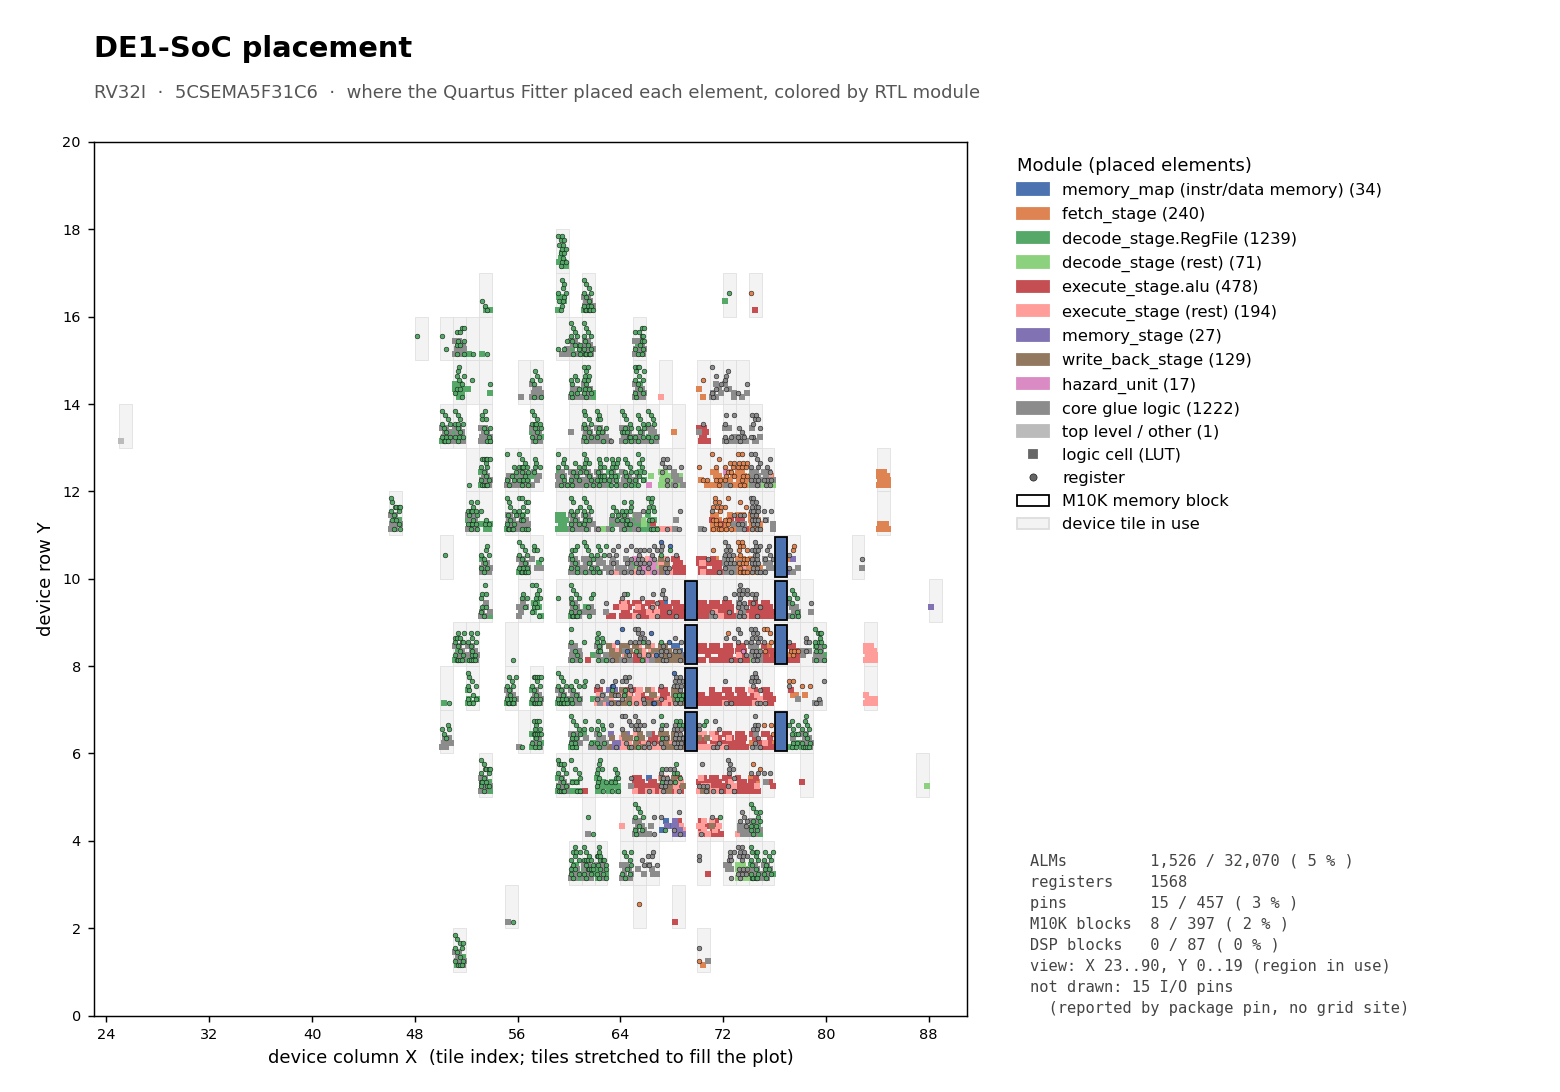
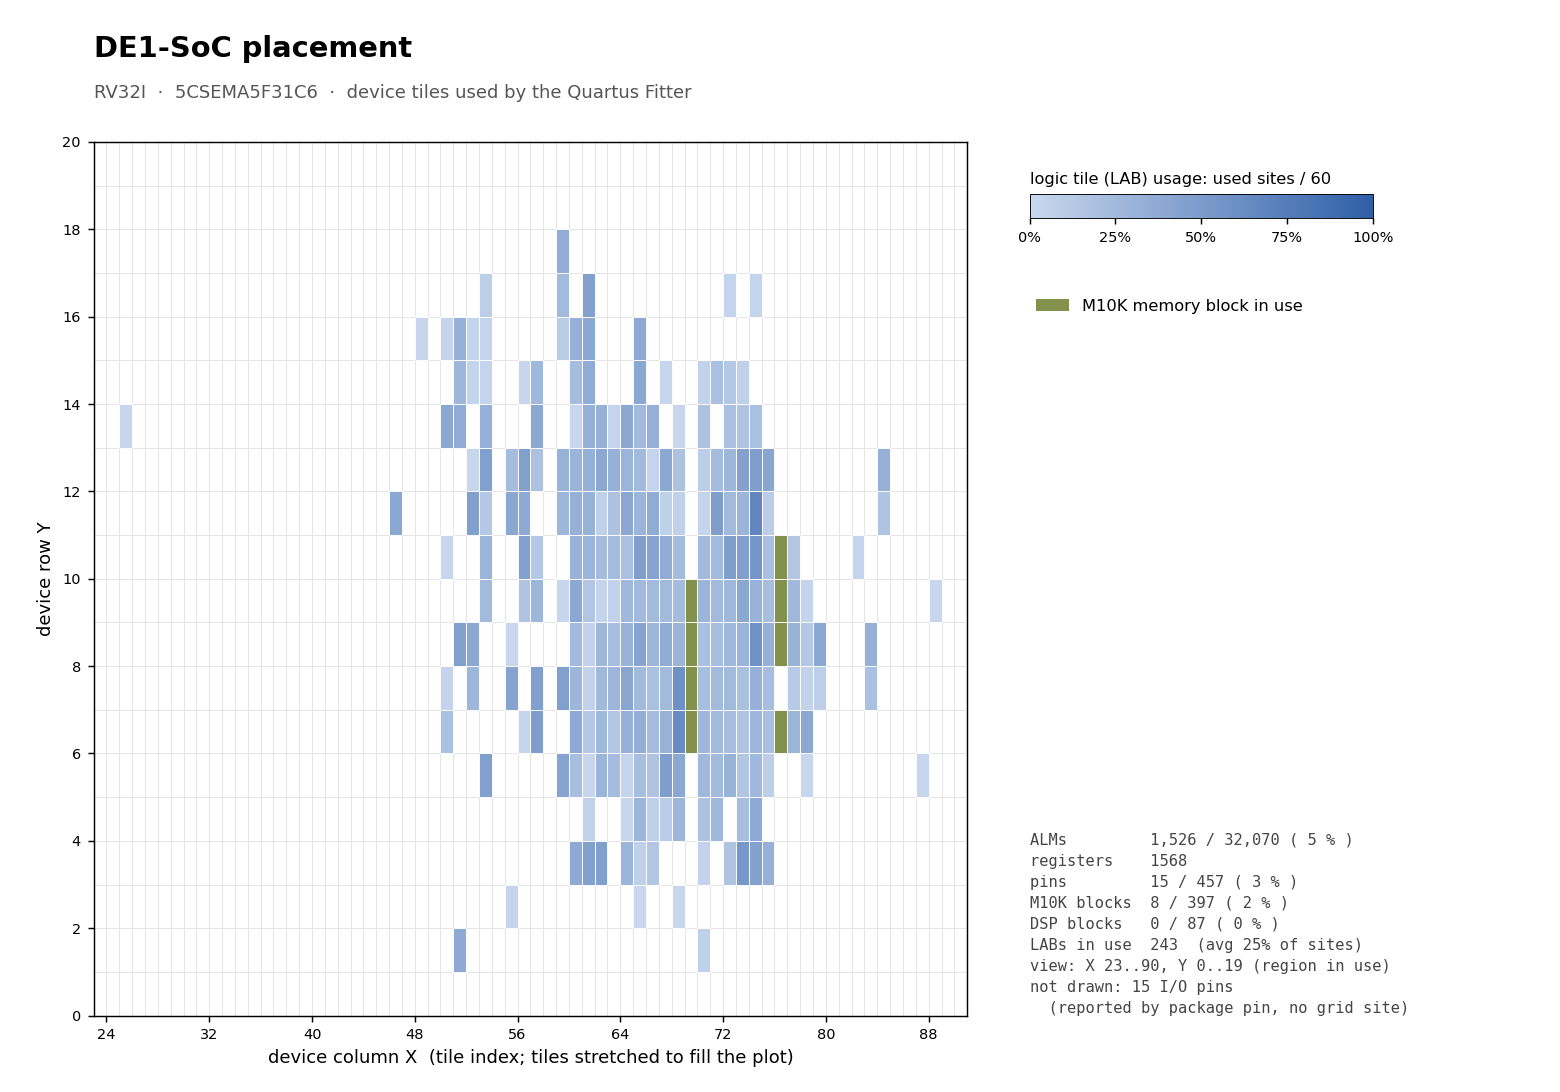
simplify chip planner placement imagery

diff --git a/envs/de1-soc/quartus/scripts/plot_placement.py b/envs/de1-soc/quartus/scripts/plot_placement.py
@@ -1,96 +1,60 @@
 #!/usr/bin/env python3
 """
-Draw the checked-in DE1-SoC (Cyclone V) placement figures from scripts/dump_placement.tcl's dump.
+Draw the checked-in DE1-SoC (Cyclone V) placement figure from scripts/dump_placement.tcl's dump.
 
     plot_placement.py --placement output_files/placement.tsv \
         --fit-summary output_files/utoss-risc-v.fit.summary --out-dir images/RV32I --config RV32I
 
-Figures:
-  placement.png  where the Fitter put each element, colored by RTL module (zoomed to the used region)
-  resources.png  logic cells, registers and memory blocks used by each RTL module
+Figure:
+  placement.png  the region of the device the design uses, like the Chip Planner's default view:
+                 each logic tile (LAB) in use is shaded by how many of its sites are used, and each
+                 M10K memory block in use is filled in
 
 Output is byte-for-byte reproducible for a given matplotlib version (bundled fonts, no PNG metadata,
-sorted input). Module colors match envs/hardening/scripts/plot_layout.py.
+sorted input).
 """
 import argparse
 import csv
 import os
 import re
-from collections import OrderedDict, defaultdict
+from collections import Counter, OrderedDict
 
 import matplotlib
 
 matplotlib.use("Agg")
 import matplotlib.pyplot as plt  # noqa: E402
 from matplotlib.collections import PolyCollection  # noqa: E402
-from matplotlib.lines import Line2D  # noqa: E402
-from matplotlib.patches import Patch, Rectangle  # noqa: E402
-from matplotlib.ticker import MaxNLocator  # noqa: E402
-
-# Instance-path prefixes (instance names, `.`-separated, below `top`), matched in order so children
-# come before their parents. Same groups and colors as the hardening figures.
-MODULES = [
-    ("memory_map",                  "memory_map (instr/data memory)", "#4C72B0"),
-    ("core.u_fetch_stage",          "fetch_stage",                    "#DD8452"),
-    ("core.u_decode_stage.RegFile", "decode_stage.RegFile",           "#55A868"),
-    ("core.u_decode_stage",         "decode_stage (rest)",            "#8CD17D"),
-    ("core.u_execute_stage.alu",    "execute_stage.alu",              "#C44E52"),
-    ("core.u_execute_stage",        "execute_stage (rest)",           "#FF9D9A"),
-    ("core.u_memory_stage",         "memory_stage",                   "#8172B3"),
-    ("core.u_write_back_stage",     "write_back_stage",               "#937860"),
-    ("core.u_hazard_unit",          "hazard_unit",                    "#DA8BC3"),
-    ("core",                        "core glue logic",                "#8C8C8C"),
-]
-OTHER = ("top level / other", "#BBBBBB")
+from matplotlib.colors import LinearSegmentedColormap, Normalize  # noqa: E402
+from matplotlib.patches import Patch  # noqa: E402
+from matplotlib.ticker import MaxNLocator, PercentFormatter  # noqa: E402
 
 FIG_SIZE = (12.0, 8.4)
 DPI = 130
+LAB_SITES = 60   # placement sites per logic tile: 10 ALMs x (2 LUT halves + 4 registers)
+
+# colors after the Chip Planner: light to dark blue for logic tiles by usage, olive for memory
+LAB_CMAP = LinearSegmentedColormap.from_list("lab_usage", ["#C9D8EE", "#2F5FA8"])
+M10K_COLOR = "#84914C"
+GRID_COLOR = "#E4E4E4"
 
 LOC_RE = re.compile(r"^(?P<kind>[A-Z0-9]+?)_X(?P<x>\d+)_Y(?P<y>\d+)_N(?P<n>\d+)$")
 
 
-def instance_path(full_name):
-    """`|top|utoss_riscv:core|ALU:alu|Add0~1` -> `core.alu` (instance names of the hierarchy)."""
-    parts = [p for p in full_name.split("|") if p]
-    insts = [p.split(":", 1)[1] for p in parts if ":" in p]
-    return ".".join(insts)
-
-
-def classify(full_name):
-    path = instance_path(full_name)
-    for prefix, label, color in MODULES:
-        if path == prefix or path.startswith(prefix + "."):
-            return label, color
-    return OTHER
-
-
-def element_kind(loc_kind):
-    if loc_kind in ("LABCELL", "MLABCELL"):
-        return "logic"
-    if loc_kind == "FF":
-        return "register"
-    if loc_kind.startswith("M10K"):
-        return "m10k"
-    if loc_kind.startswith("DSP"):
-        return "dsp"
-    return "other"
-
-
 def read_placement(path):
-    elements = []
+    """Count used sites per tile: {(x, y): n} for logic tiles, and the set of used M10K tiles."""
+    lab, m10k, unplaced = Counter(), set(), 0
     with open(path, newline="") as f:
         for r in csv.DictReader(f, delimiter="\t"):
-            label, color = classify(r["name"])
-            m = LOC_RE.match(r["location"]) or LOC_RE.match(r["element"])
-            e = {"type": r["type"], "label": label, "color": color, "name": r["name"],
-                 "location": r["location"]}
-            if m:
-                e.update(kind=element_kind(m["kind"]) if r["type"] != "io" else "io",
-                         x=int(m["x"]), y=int(m["y"]), n=int(m["n"]))
-            else:
-                e.update(kind="io" if r["type"] == "io" else "other", x=None, y=None, n=0)
-            elements.append(e)
-    return elements
+            m = LOC_RE.match(r["location"])
+            if not m:
+                unplaced += 1   # I/O pins report a package pin (PIN_AF14), not a grid site
+                continue
+            tile = (int(m["x"]), int(m["y"]))
+            if m["kind"] in ("LABCELL", "MLABCELL", "FF"):
+                lab[tile] += 1
+            elif m["kind"].startswith("M10K"):
+                m10k.add(tile)
+    return lab, m10k, unplaced
 
 
 def read_fit_summary(path):
@@ -113,23 +77,19 @@ def header(fig, title, subtitle):
 
 
 def save(fig, path):
-    fig.savefig(path, dpi=DPI, metadata={"Software": None})
+    fig.savefig(path, dpi=fig.dpi, metadata={"Software": None})
     plt.close(fig)
     print(f"wrote {path}")
 
 
-def module_order(elements):
-    labels = [label for _, label, _ in MODULES] + [OTHER[0]]
-    colors = {label: color for _, label, color in MODULES}
-    colors[OTHER[0]] = OTHER[1]
-    present = {e["label"] for e in elements}
-    return [(label, colors[label]) for label in labels if label in present]
+def square(x, y):
+    return ((x, y), (x + 1, y), (x + 1, y + 1), (x, y + 1))
 
 
-def fig_placement(elements, summary, out, config):
-    placed = [e for e in elements if e["x"] is not None]
-    xs = [e["x"] for e in placed]
-    ys = [e["y"] for e in placed]
+def fig_placement(lab, m10k, unplaced, summary, out, config):
+    tiles = set(lab) | m10k
+    xs = [x for x, _ in tiles]
+    ys = [y for _, y in tiles]
     pad = 2
     x0, x1 = max(0, min(xs) - pad), max(xs) + pad + 1
     y0, y1 = max(0, min(ys) - pad), max(ys) + pad + 1
@@ -137,56 +97,36 @@ def fig_placement(elements, summary, out, config):
     fig = plt.figure(figsize=FIG_SIZE, dpi=DPI)
     ax = fig.add_axes([0.06, 0.07, 0.56, 0.80], anchor="NW")
     header(fig, "DE1-SoC placement",
-           f"{config}  ·  {summary.get('device', 'Cyclone V')}  ·  where the Quartus Fitter placed each "
-           "element, colored by RTL module")
+           f"{config}  ·  {summary.get('device', 'Cyclone V')}  ·  device tiles used by the Quartus "
+           "Fitter")
 
-    # light background square for every device tile that holds something
-    tiles = sorted({(e["x"], e["y"]) for e in placed})
+    # faint grid of every tile in view; the device's own layout (which columns are logic, memory
+    # or DSP) isn't available from the Tcl API, so unused tiles are left blank
     ax.add_collection(PolyCollection(
-        [((x, y), (x + 1, y), (x + 1, y + 1), (x, y + 1)) for x, y in tiles],
-        facecolors="#F3F3F3", edgecolors="#DDDDDD", linewidths=0.4, zorder=1))
+        [square(x, y) for x in range(x0, x1) for y in range(y0, y1)],
+        facecolors="none", edgecolors=GRID_COLOR, linewidths=0.4, zorder=1))
 
-    # elements inside a logic tile (LAB): spread by their index N within the tile so the tile's fill
-    # is visible; logic cells as squares, registers as dots
-    def in_tile(e, cols=8):
-        slot = e["n"] // 2 if e["kind"] == "logic" else e["n"]
-        return (e["x"] + 0.1 + 0.8 * ((slot % cols) + 0.5) / cols,
-                e["y"] + 0.1 + 0.8 * (((slot // cols) % cols) + 0.5) / cols)
+    norm = Normalize(0, 1)
+    labs = sorted(lab)
+    ax.add_collection(PolyCollection(
+        [square(x, y) for x, y in labs],
+        facecolors=[LAB_CMAP(norm(lab[t] / LAB_SITES)) for t in labs],
+        edgecolors="white", linewidths=0.5, zorder=2))
+    if m10k:
+        ax.add_collection(PolyCollection(
+            [square(x, y) for x, y in sorted(m10k)],
+            facecolors=M10K_COLOR, edgecolors="white", linewidths=0.5, zorder=2))
 
-    handles = []
-    for label, color in module_order(placed):
-        group = [e for e in placed if e["label"] == label]
-        logic = [in_tile(e) for e in group if e["kind"] == "logic"]
-        regs = [in_tile(e) for e in group if e["kind"] == "register"]
-        rams = [e for e in group if e["kind"] in ("m10k", "dsp")]
-        ios = [e for e in group if e["kind"] == "io"]
-        if logic:
-            ax.scatter(*zip(*logic), s=9, marker="s", color=color, linewidths=0, zorder=3)
-        if regs:
-            ax.scatter(*zip(*regs), s=7, marker="o", color=color, edgecolors="black",
-                       linewidths=0.25, zorder=4)
-        for e in rams:
-            ax.add_patch(Rectangle((e["x"] + 0.05, e["y"] + 0.05), 0.9, 0.9, facecolor=color,
-                                   edgecolor="black", linewidth=1.0, zorder=5))
-        for e in ios:
-            ax.scatter([e["x"] + 0.5], [e["y"] + 0.5], s=40, marker="D", color=color,
-                       edgecolors="black", linewidths=0.6, zorder=6)
-        handles.append(Patch(color=color, label=f"{label} ({len(group)})"))
+    cax = fig.add_axes([0.66, 0.80, 0.22, 0.022])
+    cbar = fig.colorbar(plt.cm.ScalarMappable(norm=norm, cmap=LAB_CMAP), cax=cax,
+                        orientation="horizontal", format=PercentFormatter(1.0))
+    cbar.set_ticks([0, 0.25, 0.5, 0.75, 1.0])
+    cbar.ax.tick_params(labelsize=8)
+    cbar.outline.set_linewidth(0.5)
+    cax.set_title(f"logic tile (LAB) usage: used sites / {LAB_SITES}", fontsize=9, loc="left")
+    fig.legend(handles=[Patch(facecolor=M10K_COLOR, label="M10K memory block in use")],
+               loc="upper left", bbox_to_anchor=(0.655, 0.74), frameon=False, fontsize=9)
 
-    handles += [
-        Line2D([], [], ls="", marker="s", markersize=4, color="#666666", label="logic cell (LUT)"),
-        Line2D([], [], ls="", marker="o", markersize=4, color="#666666", markeredgecolor="black",
-               markeredgewidth=0.3, label="register"),
-        Patch(facecolor="white", edgecolor="black", label="M10K memory block"),
-        Patch(facecolor="#F3F3F3", edgecolor="#DDDDDD", label="device tile in use"),
-    ]
-    if any(e["kind"] == "io" for e in placed):
-        handles.append(Line2D([], [], ls="", marker="D", markersize=6, color="white",
-                              markeredgecolor="black", label="I/O pin"))
-    ax.legend(handles=handles, loc="upper left", bbox_to_anchor=(1.04, 1.0), frameon=False,
-              fontsize=9, title="Module (placed elements)", title_fontsize=10, alignment="left")
-
-    # device X/Y are tile indices, not distances, so the used region is stretched to fill the plot
     ax.set_xlim(x0, x1)
     ax.set_ylim(y0, y1)
     ax.set_xlabel("device column X  (tile index; tiles stretched to fill the plot)")
@@ -195,9 +135,10 @@ def fig_placement(elements, summary, out, config):
     ax.yaxis.set_major_locator(MaxNLocator(integer=True))
     ax.tick_params(labelsize=8)
 
+    used = sum(lab.values())
     note = [f"{k:<12} {v}" for k, v in summary.items() if k != "device"]
+    note.append(f"LABs in use  {len(lab)}  (avg {used / max(len(lab), 1) / LAB_SITES:.0%} of sites)")
     note.append(f"view: X {x0}..{x1 - 1}, Y {y0}..{y1 - 1} (region in use)")
-    unplaced = sum(1 for e in elements if e["x"] is None)
     if unplaced:
         note.append(f"not drawn: {unplaced} I/O pins")
         note.append("  (reported by package pin, no grid site)")
@@ -206,54 +147,21 @@ def fig_placement(elements, summary, out, config):
     save(fig, out)
 
 
-def fig_resources(elements, summary, out, config):
-    order = module_order(elements)
-    counts = defaultdict(lambda: defaultdict(int))
-    for e in elements:
-        counts[e["label"]][e["kind"]] += 1
-
-    metrics = [("logic", "logic cells (LUTs)"), ("register", "registers"),
-               ("m10k", "M10K memory blocks"), ("io", "I/O pins")]
-    fig, axes = plt.subplots(1, len(metrics), figsize=(12.0, 6.0), dpi=DPI, sharey=True)
-    fig.subplots_adjust(left=0.22, right=0.98, top=0.80, bottom=0.10, wspace=0.12)
-    header(fig, "DE1-SoC resources by module",
-           f"{config}  ·  {summary.get('device', 'Cyclone V')}  ·  placed elements per RTL module")
-
-    labels = [label for label, _ in order][::-1]
-    colors = [color for _, color in order][::-1]
-    for ax, (kind, title) in zip(axes, metrics):
-        vals = [counts[label][kind] for label in labels]
-        ax.barh(range(len(labels)), vals, color=colors, height=0.7)
-        total = sum(vals)
-        ax.set_title(f"{title}\n(total {total})", fontsize=10)
-        vmax = max(vals) if any(vals) else 1
-        for i, v in enumerate(vals):
-            if v:
-                ax.text(v + vmax * 0.02, i, str(v), va="center", fontsize=8)
-        ax.set_xlim(0, vmax * 1.25)
-        ax.tick_params(labelsize=8)
-        for side in ("top", "right"):
-            ax.spines[side].set_visible(False)
-    axes[0].set_yticks(range(len(labels)))
-    axes[0].set_yticklabels(labels, fontsize=9)
-    save(fig, out)
-
-
 def main():
     p = argparse.ArgumentParser(description=__doc__, formatter_class=argparse.RawDescriptionHelpFormatter)
     p.add_argument("--placement", required=True, help="TSV written by scripts/dump_placement.tcl")
     p.add_argument("--fit-summary", help="Quartus .fit.summary, for the utilization note")
-    p.add_argument("--out-dir", required=True, help="where to write the PNG figures")
-    p.add_argument("--config", required=True, help="UTOSS_RISCV_CONFIG, shown in the figure titles")
+    p.add_argument("--out-dir", required=True, help="where to write the PNG figure")
+    p.add_argument("--config", required=True, help="UTOSS_RISCV_CONFIG, shown in the figure title")
     args = p.parse_args()
 
     plt.rcParams.update({"font.family": "DejaVu Sans", "figure.facecolor": "white",
                          "savefig.facecolor": "white", "path.simplify": False})
     os.makedirs(args.out_dir, exist_ok=True)
-    elements = read_placement(args.placement)
+    lab, m10k, unplaced = read_placement(args.placement)
     summary = read_fit_summary(args.fit_summary)
-    fig_placement(elements, summary, os.path.join(args.out_dir, "placement.png"), args.config)
-    fig_resources(elements, summary, os.path.join(args.out_dir, "resources.png"), args.config)
+    fig_placement(lab, m10k, unplaced, summary, os.path.join(args.out_dir, "placement.png"),
+                  args.config)
 
 
 if __name__ == "__main__":

diff --git a/envs/de1-soc/quartus/images/README.md b/envs/de1-soc/quartus/images/README.md
@@ -1,7 +1,7 @@
 # DE1-SoC placement figures
 
-Each `<config>/` directory holds the figures for one `UTOSS_RISCV_CONFIG`, drawn from the Quartus
-compile of the DE1-SoC environment (Cyclone V 5CSEMA5F31C6):
+Each `<config>/` directory holds the placement figure for one `UTOSS_RISCV_CONFIG`, drawn from the
+Quartus compile of the DE1-SoC environment (Cyclone V 5CSEMA5F31C6):
 
 ```sh
 make synthesize images UTOSS_RISCV_CONFIG=RV32I
@@ -9,25 +9,22 @@ make synthesize images UTOSS_RISCV_CONFIG=RV32I
 
 1. `scripts/dump_placement.tcl` uses the Chip Planner Tcl package (`quartus_cdb`) to list where the
    Fitter placed every logic cell, register and memory block (`output_files/placement.tsv`).
-2. `scripts/plot_placement.py` draws the figures from that list with matplotlib.
+2. `scripts/plot_placement.py` draws the figure from that list with matplotlib.
 
-Quartus has no command-line image export for the Chip Planner, so these are drawn from the
-placement data instead of being screenshots.
+Quartus has no command-line image export for the Chip Planner, so the figure is drawn from the
+placement data instead of being a screenshot.
 
 CI redraws the figures after every compile and fails if they differ from the checked-in ones, so
 commit the updated figures together with any RTL change that affects them. If your local figures
 ever differ from CI's, the `de1-soc-images-<config>` artifact of the CI run has the ones CI drew.
 
-| Figure | What it shows |
-|---|---|
-| `placement.png` | The region of the device the design uses. Each grey square is a device tile (logic block or memory block) in use. Logic cells (squares) and registers (dots) are colored by RTL module, and M10K memory blocks are outlined. Device X/Y are tile indices, so the view is stretched to fill the plot. |
-| `resources.png` | Logic cells (LUTs), registers, M10K memory blocks and I/O pins used by each RTL module. |
-
-Module groups and colors are the `MODULES` table in `scripts/plot_placement.py`. They match the
-ASIC figures in `envs/hardening/images/`, so the same module has the same color in both.
+`placement.png` follows the Chip Planner's default view, zoomed to the region of the device the
+design uses:
+- Each logic tile (LAB) in use is shaded blue by how many of its 60 sites are used (10 ALMs, each
+  with two LUT halves and four registers). This is the Chip Planner's "Block utilization".
+- Each M10K memory block in use is filled in olive.
 
 Limitations:
-- Only sites the design uses are drawn. Quartus's Tcl API doesn't expose the empty device layout
-  (which columns are logic, memory or DSP, or the HPS region).
-- I/O pins are reported by package pin (`PIN_AF14`) rather than grid site, so they appear in
-  `resources.png` but not in `placement.png`.
+- Unused tiles are left blank. Quartus's Tcl API doesn't expose the empty device layout (which
+  columns are logic, memory or DSP, or the HPS region).
+- I/O pins are reported by package pin (`PIN_AF14`) rather than grid site, so they aren't drawn.
